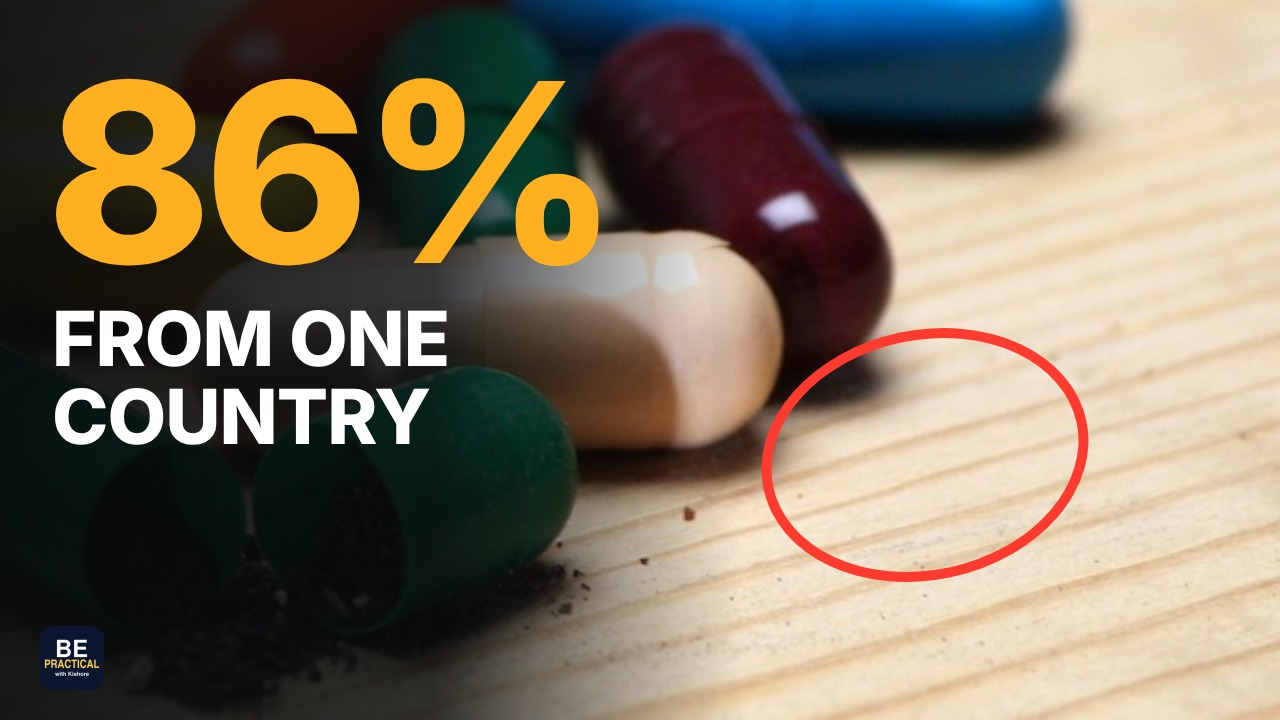
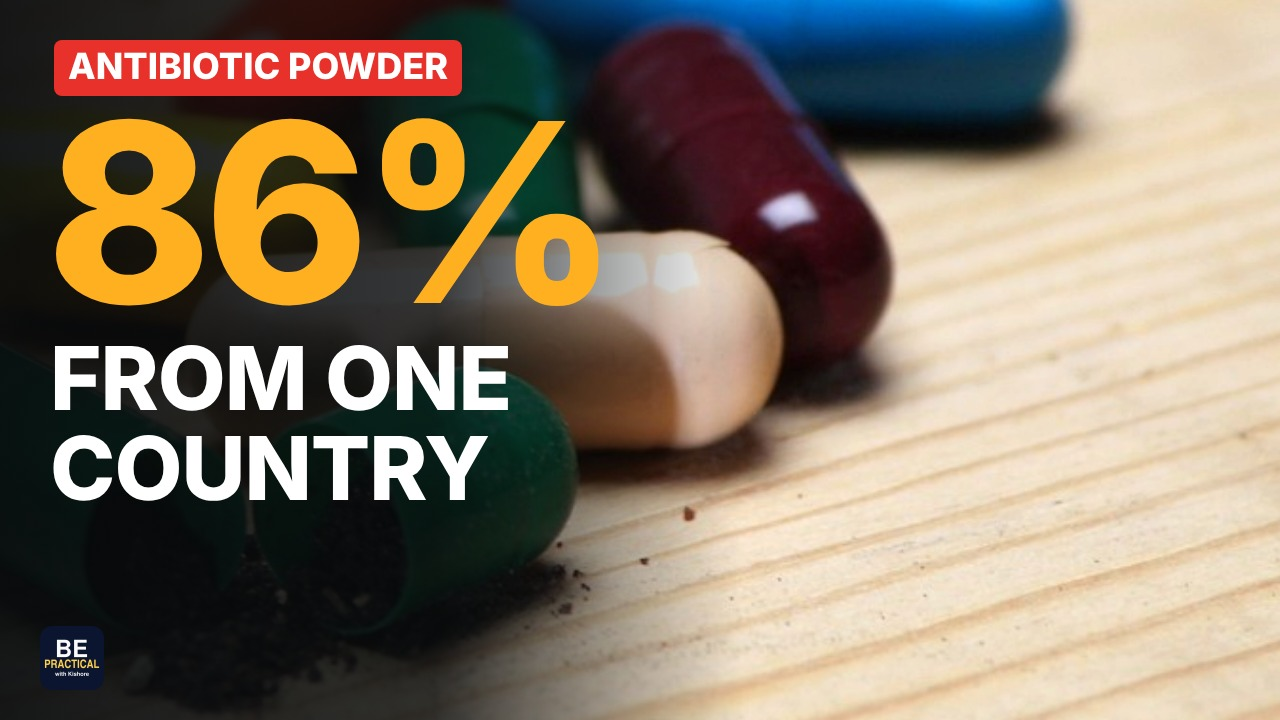
pharma-apis: thumbnails fixed after the click panel (A main, B challenger), description draft
Claude-Session: https://claude.ai/code/session_019NnLeoVsbCY2JgR4vomP6P

diff --git a/projects/pharma-apis/youtube/thumb/thumb_a.html b/projects/pharma-apis/youtube/thumb/thumb_a.html
@@ -1,8 +1,9 @@
 <!doctype html><html><head><meta charset="utf-8"><style>@font-face{font-family:I;font-weight:800;src:url(inter-latin-800-normal.woff2)}@font-face{font-family:I;font-weight:600;src:url(inter-latin-600-normal.woff2)}*{margin:0;padding:0;box-sizing:border-box}body{width:1280px;height:720px;overflow:hidden;font-family:I,sans-serif;font-weight:800;position:relative;background:#111}.logo{position:absolute;left:40px;bottom:30px;width:64px;height:64px;border-radius:12px}
 .bg{position:absolute;inset:0;background:url(src/pixabay_3446124.jpg) 72% 62%/190% auto;filter:brightness(1.15) contrast(1.1) saturate(1.15)}
 .sh{position:absolute;inset:0;background:linear-gradient(90deg,rgba(8,10,12,.94) 0%,rgba(8,10,12,.82) 34%,rgba(8,10,12,0) 58%)}
-.n{position:absolute;left:46px;top:60px;font-size:250px;line-height:.9;letter-spacing:-8px;color:#ffb020}
-.w{position:absolute;left:52px;top:300px;font-size:76px;line-height:1.02;color:#fff;letter-spacing:-1px}
-.ring{position:absolute;left:760px;top:330px;width:330px;height:250px;border:10px solid #ff3b30;border-radius:50%;transform:rotate(-12deg)}
-</style></head><body><div class="bg"></div><div class="sh"></div><div class="ring"></div>
-<div class="n">86%</div><div class="w">FROM ONE<br>COUNTRY</div><img class="logo" src="logo.png"></body></html>
+.tag{position:absolute;left:54px;top:40px;font-size:36px;color:#fff;background:#e8312a;padding:4px 14px 8px;border-radius:8px}
+.n{position:absolute;left:46px;top:100px;font-size:250px;line-height:.9;letter-spacing:-8px;color:#ffb020}
+.w{position:absolute;left:50px;top:334px;font-size:88px;line-height:1.02;color:#fff;letter-spacing:-1px}
+.ring{position:absolute;left:230px;top:545px;width:360px;height:160px;border:10px solid #ff3b30;border-radius:50%;transform:rotate(-8deg);box-shadow:0 0 0 3px rgba(0,0,0,.35)}
+</style></head><body><div class="bg"></div><div class="sh"></div>
+<div class="tag">ANTIBIOTIC POWDER</div><div class="n">86%</div><div class="w">FROM ONE<br>COUNTRY</div><img class="logo" src="logo.png"></body></html>

diff --git a/projects/pharma-apis/youtube/thumb/thumb_b.html b/projects/pharma-apis/youtube/thumb/thumb_b.html
@@ -3,8 +3,8 @@
 .panel{position:absolute;left:0;top:0;bottom:0;width:560px;background:rgba(255,255,255,.93)}
 .w{position:absolute;left:46px;top:150px;font-size:118px;line-height:.98;color:#111;letter-spacing:-4px}
 .w span{color:#e8312a}
-.arrow{position:absolute;left:600px;top:290px;width:220px;height:16px;background:#e8312a;border-radius:8px;transform:rotate(-8deg)}
+.arrow{position:absolute;left:610px;top:300px;width:300px;height:16px;background:#e8312a;border-radius:8px;transform:rotate(4deg)}
 .arrow:after{content:"";position:absolute;right:-10px;top:-22px;border-left:44px solid #e8312a;border-top:30px solid transparent;border-bottom:30px solid transparent}
-.ring{position:absolute;left:830px;top:180px;width:250px;height:250px;border:12px solid #e8312a;border-radius:50%}
+.ring{position:absolute;left:945px;top:200px;width:250px;height:250px;border:12px solid #e8312a;border-radius:50%}
 </style></head><body><div class="bg"></div><div class="panel"></div><div class="arrow"></div><div class="ring"></div>
 <div class="w">MADE IN<br><span>INDIA?</span></div><img class="logo" src="logo.png"></body></html>

diff --git a/projects/pharma-apis/youtube/thumb/thumb_c.html b/projects/pharma-apis/youtube/thumb/thumb_c.html
@@ -3,7 +3,7 @@
 .sh{position:absolute;inset:0;background:linear-gradient(0deg,rgba(6,10,12,.9) 0%,rgba(6,10,12,.4) 45%,rgba(6,10,12,0) 70%)}
 .w{position:absolute;left:46px;bottom:150px;font-size:104px;line-height:1;color:#fff;letter-spacing:-3px}
 .w b{color:#ff9933}
-.date{position:absolute;right:40px;top:40px;font-size:64px;color:#fff;background:#e8312a;padding:10px 26px 16px;border-radius:14px}
-.cover{position:absolute;left:0;bottom:0;width:640px;height:150px;background:linear-gradient(90deg,rgba(6,10,12,.95),rgba(6,10,12,.6))}
+.date{position:absolute;right:20px;top:12px;font-size:64px;color:#fff;background:#e8312a;padding:10px 26px 16px;border-radius:14px}
+.cover{position:absolute;left:0;bottom:0;width:100%;height:170px;background:linear-gradient(0deg,rgba(6,10,12,.85),rgba(6,10,12,0))}
 </style></head><body><div class="bg"></div><div class="sh"></div><div class="cover"></div>
 <div class="w">INDIA'S <b>₹2,500 CR</b><br>BET</div><div class="date">JAN 2027</div><img class="logo" src="logo.png"></body></html>

diff --git a/projects/pharma-apis/youtube/thumb_panel.md b/projects/pharma-apis/youtube/thumb_panel.md
@@ -1,0 +1,18 @@
+# Thumbnail click panel (independent, 2026-10-28)
+
+Five Indian viewers (student Hyderabad, pharmacist Pune, shop owner Vijayawada, IT worker Bengaluru, retired Lucknow),
+one-second reaction each, with the title "India Is the Pharmacy of the World. So Who Makes Its Medicine?".
+
+| Thumbnail | Yes | Maybe | No | Small size |
+|---|---|---|---|---|
+| A · 86% FROM ONE COUNTRY | 5 | 0 | 0 | "86%" reads instantly |
+| B · MADE IN INDIA? | 2 | 3 | 0 | clear text and tablets |
+| C · INDIA'S ₹2,500 CR BET | 0 | 2 | 3 | reads as a power plant, not medicine |
+
+**Main: A. Test & Compare challenger: B.** C stays a third option.
+
+Fixes applied after the panel:
+- A: a red "ANTIBIOTIC POWDER" tag so the 86% says what it measures (claim P22, NITI Aayog Trade Watch Q4 FY26: about
+  86 of every 100 rupees of imported antibiotic powder went to China); the empty ring removed; the words 15% bigger.
+- B: the ring now circles a tablet, and the arrow points at it.
+- C: the source logo is covered by the date box; the bottom scrim is now a full-width fade.

diff --git a/projects/pharma-apis/youtube/description.md b/projects/pharma-apis/youtube/description.md
@@ -1,0 +1,24 @@
+# YouTube package: pharma-apis (DRAFT, times from the preview cut; re-check on the final cut)
+
+## Title
+
+```
+India Is the Pharmacy of the World. So Who Makes Its Medicine? | Be Practical With Kishore
+```
+
+## Description
+
+```
+India is the pharmacy of the world, but the powder inside many of our medicines, the API, comes from China.
+In the Corona days India had to hold back exports of 26 of its own medicines and their ingredients. This film shows why that happened, how India once made its own penicillin at Pimpri, and how a new plant in Kakinada, Andhra Pradesh, is switching it back on.
+Simple English, real documents, and the date to watch next.
+
+0:00 India, the pharmacy of the world, locked
+1:33 How India became the pharmacy of the world
+2:55 Where the medicine powder (API) comes from
+3:32 India made its own penicillin: Pimpri 1954
+4:27 How penicillin is made, and why scale wins
+5:55 How China took the API market
+7:37 Kakinada penicillin plant: the PLI scheme
+9:12 The date to watch: January 2027
+```
